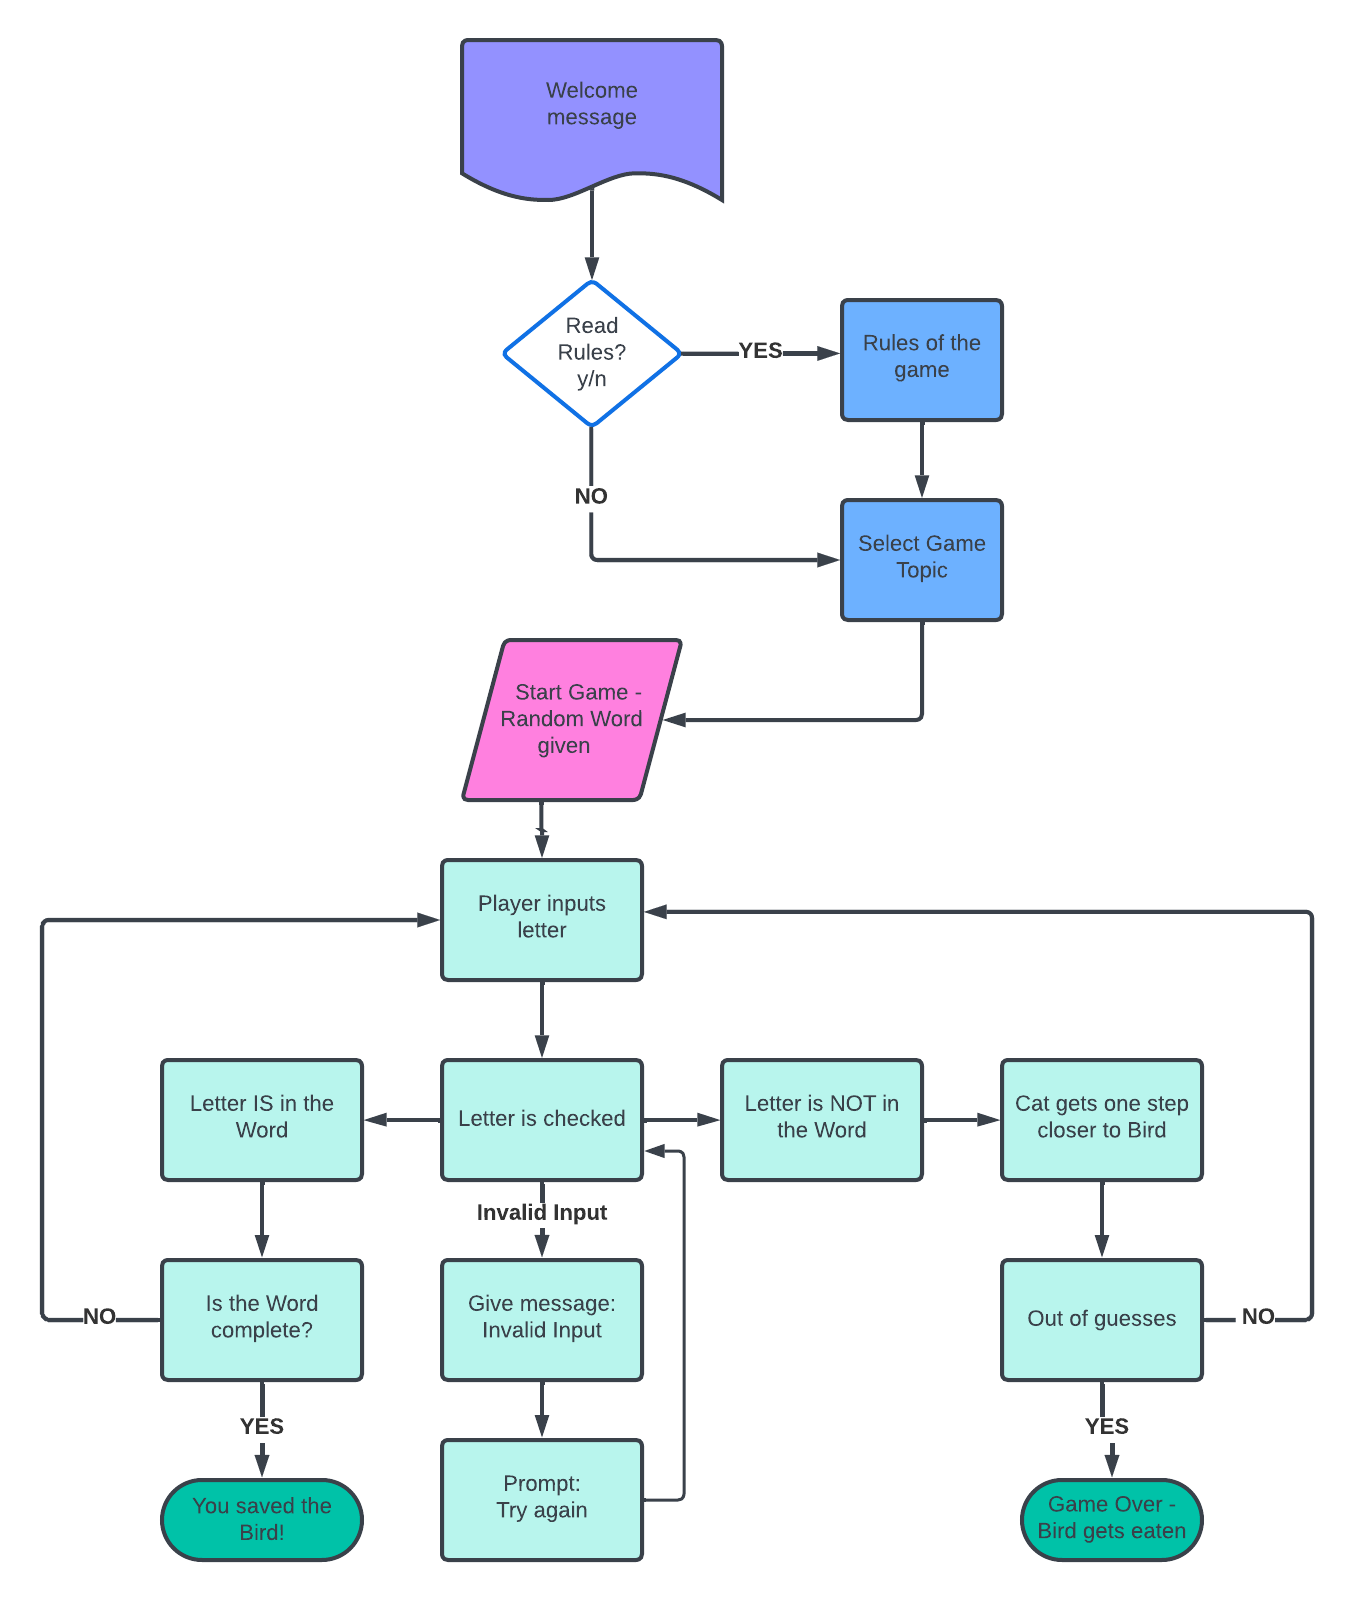
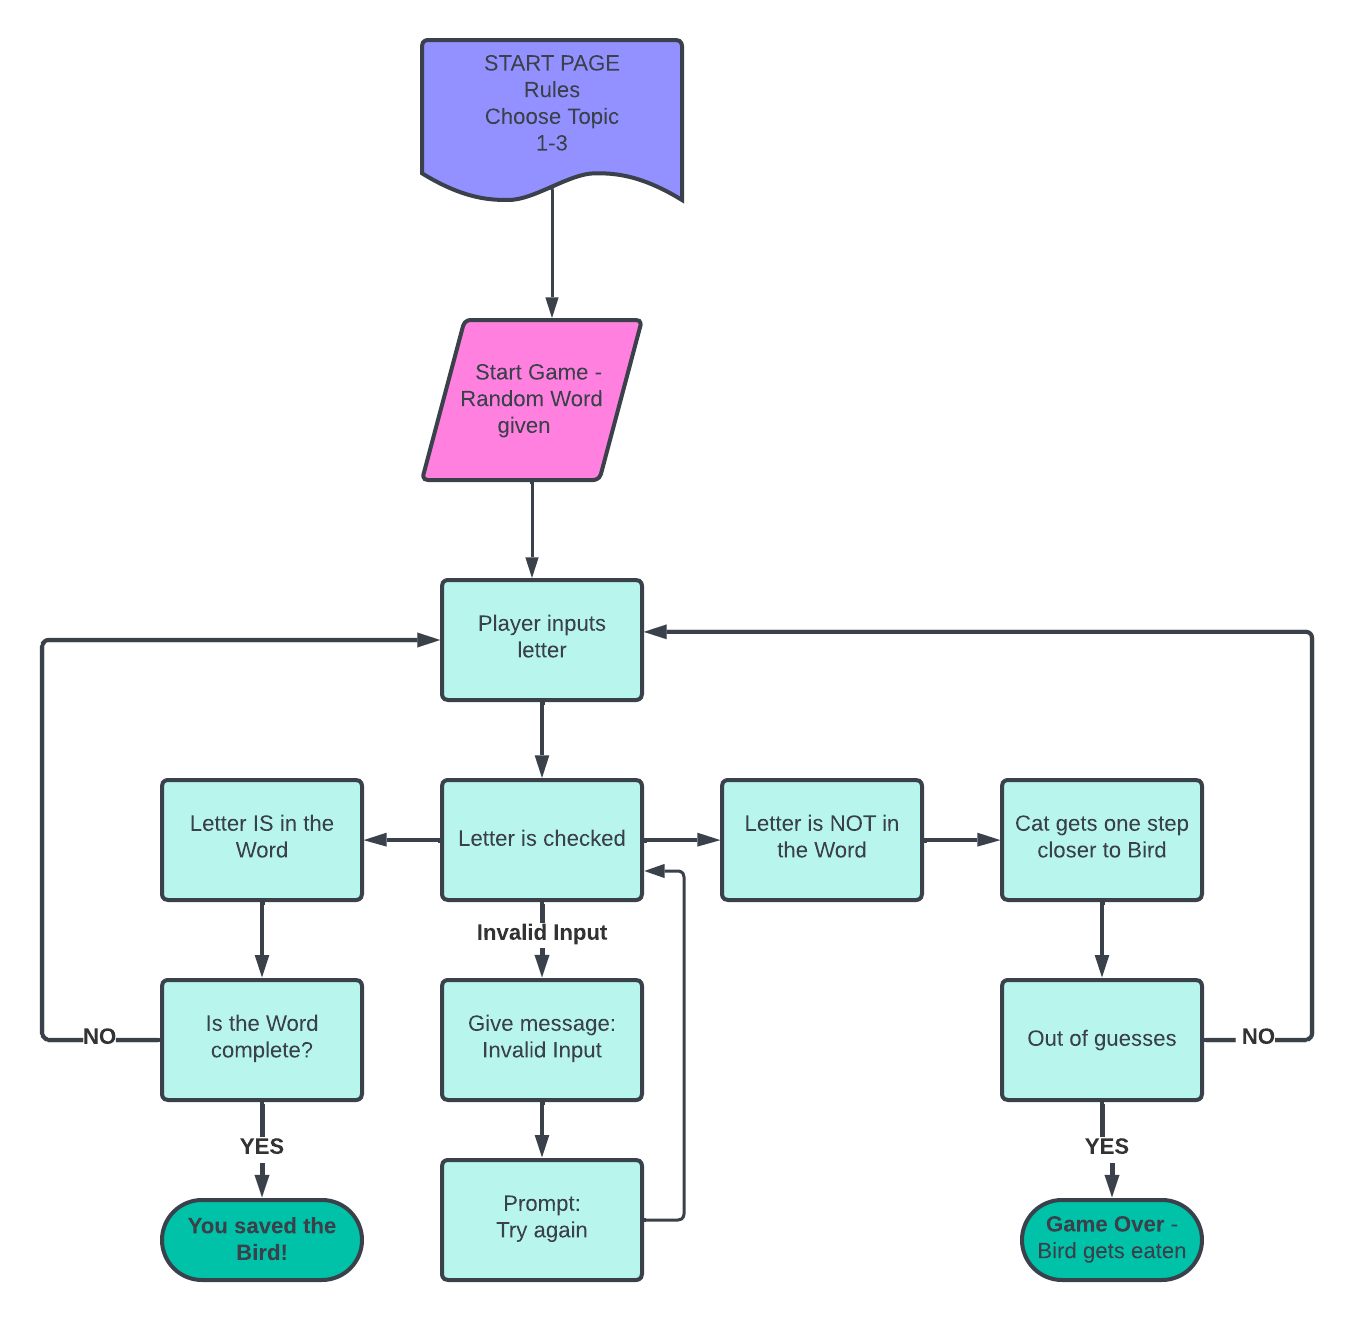
Add new flowchart to readme.md

Changed region(s): [[0.031, 0.0, 0.9926, 0.9939], [0.031, 0.5591, 0.062, 0.5902]]

diff --git a/README.md b/README.md
@@ -1,4 +1,4 @@
-### Save the Bird!
+# Save the Bird!
 
 [Picture of startpage]()
 
@@ -11,26 +11,26 @@ If the player is correct, the Bird escapes the Cat and survives. If the player's
 
 ## Features
 
-# Future Features
+### Future Features
 -   Ability to log in and save scores
 -   A Highscore board
 
 ## Flowchart
-[Image of the flowchart of the game]()
+[Image of the flowchart of the game](/documentation/project_description/flowchart.png)
 
 ## Testing
 
 ## Bugs
 
-# Unfixed bugs
+### Unfixed bugs
 
 ## Deployment
 
 ## Credits
 
-# Content
+### Content
 
-# Media
+### Media
 
 
 
